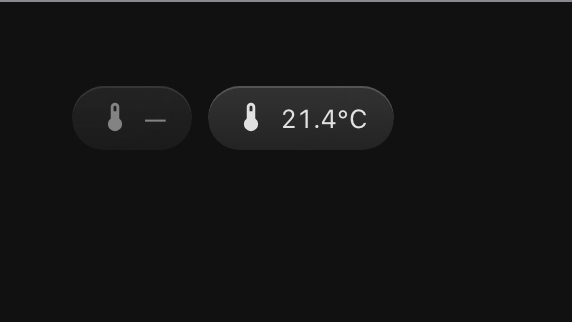
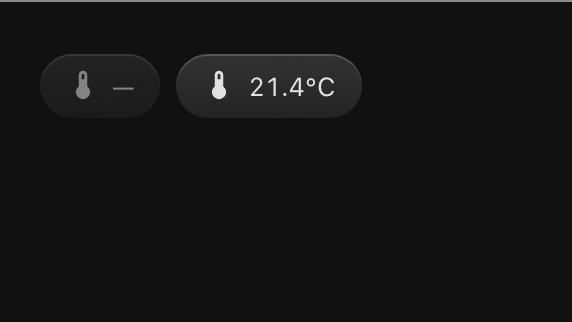
feat(chips): a tinted chip washes its pill, not just its glyph
The colour option shipped marking only the glyph, on the rules doc's
argument that a row of six coloured chips stops reading as one band.
That argument is right about a saturated pill and wrong about a wash:
at a fifth of the colour the pill stays in the same translucent family
as its untinted neighbours, it just becomes a different member of it.
In practice the glyph-only version was subtle enough to read as
"nothing happened".

The half worth keeping is kept: the reading and the caption stay one
ink, because a coloured number is the second, blurrier opinion about a
number the chip has already printed -- core/ring.ts's argument, and
the actual substance of section 3.

The tint variable moves from the glyph to the chip so the pill can read
it too. Three washes rather than one, because a translucent tint is not
one colour: light glass, dark glass lit from the top edge the way the
untinted dark pill is, and card mode mixed into the opaque track rather
than left transparent over it.

An unavailable chip still drops its colour entirely -- the dimming is
what says "not reporting", and a tinted pill undercuts it.

Claude-Session: https://claude.ai/code/session_01Vy9t1DDGPftKAD8pgqsbgD

diff --git a/src/cards/chips/chips-card.ts b/src/cards/chips/chips-card.ts
@@ -195,6 +195,42 @@ class CupertinoChipsCard extends CupertinoCard<ChipsCardConfig> {
         background: var(--cw-track);
       }
 
+      /* A tinted chip washes its pill in its own colour rather than only marking the glyph.
+         The rules doc argued for glyph-only on the grounds that a row of six competing
+         highlights stops reading as one band -- which is true of a SATURATED pill and not of a
+         wash this light. At a fifth of the colour the pill still reads as the same translucent
+         family as its untinted neighbours; what changes is which family member it is.
+
+         The text stays one ink deliberately. A coloured reading would be the second, blurrier
+         opinion about a number the chip has already printed, which is the argument core/ring.ts
+         makes and the one part of the original rule worth keeping. */
+      .glass .chip.tinted .pill {
+        background: linear-gradient(
+          to bottom,
+          color-mix(in srgb, var(--cw-chip-tint) 16%, transparent),
+          color-mix(in srgb, var(--cw-chip-tint) 24%, transparent)
+        );
+        box-shadow: inset 0 1px 0 color-mix(in srgb, var(--cw-chip-tint) 22%, transparent);
+      }
+
+      /* Denser against a dark ground, where a 16% wash of a mid-tone colour disappears into
+         the wallpaper, and lit from the top edge the way the untinted dark pill is. */
+      :host([dark]) .glass .chip.tinted .pill {
+        background: linear-gradient(
+          to bottom,
+          color-mix(in srgb, var(--cw-chip-tint) 30%, transparent),
+          color-mix(in srgb, var(--cw-chip-tint) 20%, transparent)
+        );
+        box-shadow: inset 0 1px 0 color-mix(in srgb, var(--cw-chip-tint) 38%, transparent);
+      }
+
+      /* Card mode has an opaque surface under it, so the wash is mixed into that surface's own
+         track rather than left translucent: a transparent tint over an opaque card would read
+         as a different colour depending on the theme behind it. */
+      .surface .chip.tinted .pill {
+        background: color-mix(in srgb, var(--cw-chip-tint) 22%, var(--cw-track));
+      }
+
       .glyph {
         --mdc-icon-size: calc(17px * var(--cw-scale));
         flex: none;
@@ -574,9 +610,10 @@ class CupertinoChipsCard extends CupertinoCard<ChipsCardConfig> {
 
     return html`
       <div
-        class="chip ${content} ${chip.fill ? 'fill' : ''} ${chip.unavailable ? 'unknown' : ''} ${
-          pressable ? 'cw-pressable' : ''
-        }"
+        class="chip ${content} ${chip.fill ? 'fill' : ''} ${chip.color ? 'tinted' : ''} ${
+          chip.unavailable ? 'unknown' : ''
+        } ${pressable ? 'cw-pressable' : ''}"
+        style=${chip.color ? `--cw-chip-tint:${chip.color}` : nothing}
         role=${pressable ? 'button' : nothing}
         tabindex=${pressable ? 0 : nothing}
         aria-label=${pressable ? label : nothing}
@@ -587,17 +624,10 @@ class CupertinoChipsCard extends CupertinoCard<ChipsCardConfig> {
         <span class="pill">
           ${
             chip.picture
-              ? // A photograph cannot be tinted, so it deliberately carries no `--cw-chip-tint`:
-                // a colour set on a chip that turns out to have a picture is simply not applied,
-                // rather than washed over the face. `alt` is empty because the chip's own
-                // aria-label already names it -- a screen reader should hear "Joe, home", not
-                // "Joe, home, Joe".
+              ? // `alt` is empty because the chip's own aria-label already names it -- a screen
+                // reader should hear "Joe, home", not "Joe, home, Joe".
                 html`<img class="glyph portrait" src=${chip.picture} alt="" />`
-              : html`<ha-icon
-                  class="glyph"
-                  style=${chip.color ? `--cw-chip-tint:${chip.color}` : nothing}
-                  .icon=${chip.icon}
-                ></ha-icon>`
+              : html`<ha-icon class="glyph" .icon=${chip.icon}></ha-icon>`
           }
           ${body}
         </span>

diff --git a/dev/shots.ts b/dev/shots.ts
@@ -319,6 +319,24 @@ const SHOTS: readonly Shot[] = [
     theme: 'light',
   },
   {
+    name: 'chips-tinted',
+    caption: 'a tinted row: the pill takes the colour, the reading stays one ink',
+    tag: CHIPS_CARD_TAG,
+    config: chipsShot('mixed', { color: 'blue' }),
+    columns: 12,
+    rows: 3,
+    theme: 'light',
+  },
+  {
+    name: 'chips-tinted-dark',
+    caption: 'the same wash against a dark ground, lit from the top edge',
+    tag: CHIPS_CARD_TAG,
+    config: chipsShot('mixed', { color: 'blue' }),
+    columns: 12,
+    rows: 3,
+    theme: 'dark',
+  },
+  {
     name: 'chips-card',
     caption: 'the same row with a surface under it, for a busy background',
     tag: CHIPS_CARD_TAG,

diff --git a/docs/chips-widget-rules.md b/docs/chips-widget-rules.md
@@ -166,6 +166,14 @@ DOM this drew before rows existed.
 
 ## 3. The colour: this card opts out of identity
 
+> **Revised in v1.13.0.** A tinted chip now washes its whole pill in its colour rather than
+> marking only the glyph. The original rule argued that six coloured chips stop reading as one
+> band, which is true of a saturated pill and not of a wash at a fifth of the colour: the pill
+> stays in the same translucent family as its untinted neighbours, it just becomes a different
+> member of it. The half of the rule worth keeping is kept — the reading and the caption are
+> still one ink, because a coloured number is a second, blurrier opinion about a number the
+> chip has already printed.
+
 The complication card's §2 says the colour comes from what the entity measures and then holds
 still — orange for a thermometer at 40°F and at 90°F, because the colour is "what kind of thing
 is this" rather than "how is this reading doing". **Chips have no per-entity colour at all**,
